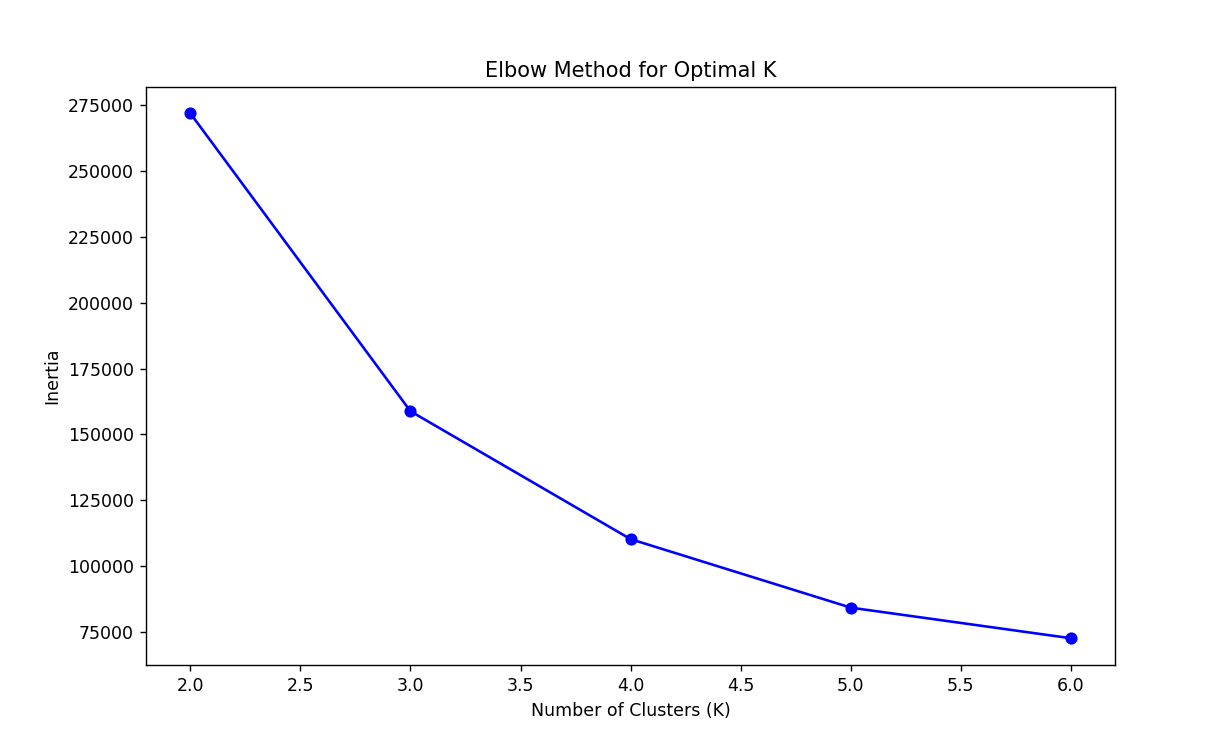
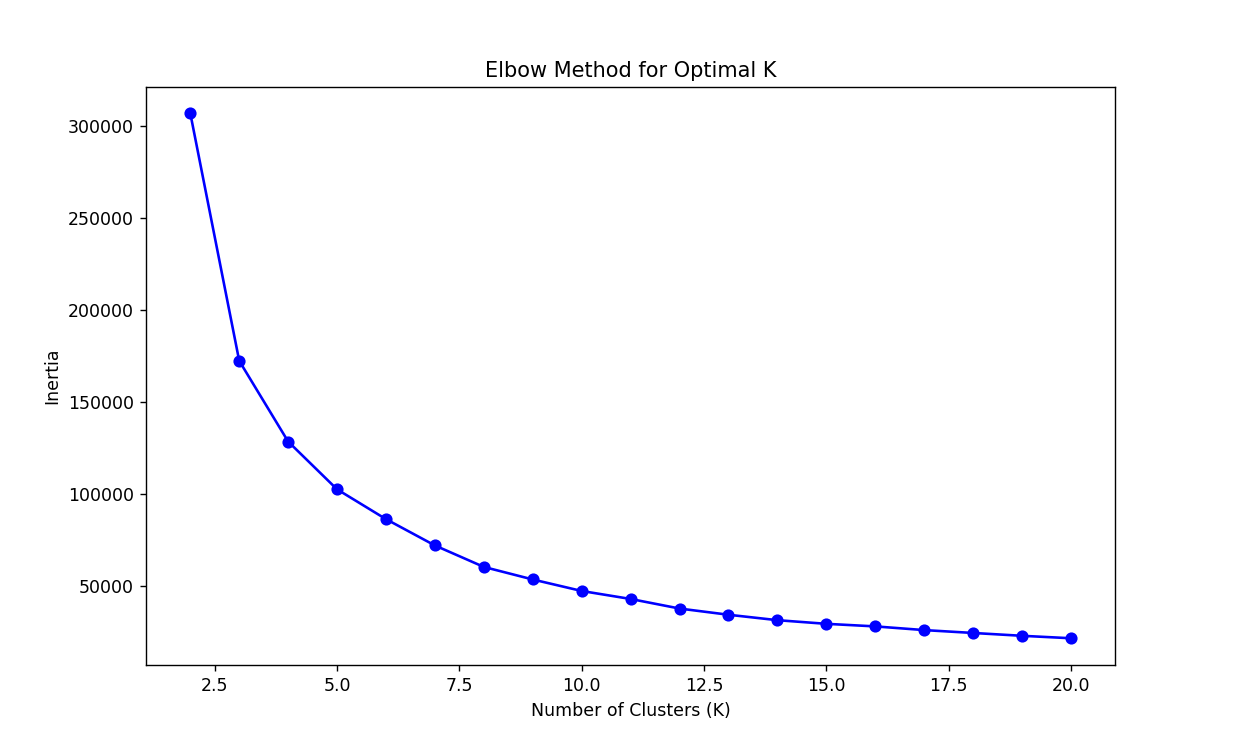
Fixed scaling issue with K means

diff --git a/kmeans.py b/kmeans.py
@@ -2,7 +2,7 @@ import numpy as np
 
 # For converting text features into vectors
 from sklearn.feature_extraction.text import TfidfVectorizer
-from sklearn.preprocessing import StandardScaler 
+from sklearn.preprocessing import StandardScaler, scale
 from sklearn.cluster import KMeans
 from sklearn.manifold import TSNE
 from sklearn.metrics import silhouette_samples, silhouette_score
@@ -26,11 +26,11 @@ from details_keywords import primary_keywords, secondary_keywords
 
 # Declaring constants
 TABLE_NAME = "incidents"
-# Obtained from the elbow plot
+# Obtained from silhouette analysis and the elbow plot
 N_CLUSTERS = 3
 # Testing a range of possible cluster counts
-RANGE_N_CLUSTERS = range(2, 7)
-FEATURES_TO_ANALYZE = ['id', 'incidenttype_cleaned', 'location']
+RANGE_N_CLUSTERS = range(2, 21)
+# FEATURES_TO_ANALYZE = ['id', 'incidenttype_cleaned', 'location']
 
 """
 Loads and preprocesses the data for training.
@@ -40,6 +40,7 @@ def load_and_transform_data(engine):
     df = pd.read_sql(f"SELECT * FROM {TABLE_NAME} ORDER BY id", engine)
     # Storing a duplicate of the DataFrame for reference when recommendations are suggested
     copied_df = df.copy(deep=True)
+    # Dropping unneccessary columns
     df = df.drop(columns=['page', 'otherincidenttype', 'detailsembed', 'locdetailsembed', 'locdescrembed', 'locationembed', 'descrembed'], axis=1)
 
     # For specifying the exact incident type for any incident type that is "Other"
@@ -51,6 +52,8 @@ def load_and_transform_data(engine):
     # For the date/time of the incident
     df = get_dates(df)
 
+    # Dropping text columns since they are not needed for clustering
+    # df = df.drop(['incidentdetails', 'description'], axis=1)
     # text_features = {}
     # vectorizers = {}
 
@@ -67,9 +70,9 @@ def load_and_transform_data(engine):
 
     # return result_df, copied_df, vectorizers
 
-    vectorizers = {}
-    df = df.drop(['incidentdetails', 'description'], axis=1)
-    return df, copied_df, vectorizers
+    # vectorizers = {}
+    
+    return df, copied_df
 
 """
 Uses the keyword dictionaries to map any rows with "Other" as their incident type to an appropriate keyword (i.e. mapping it to a new category).
@@ -257,21 +260,17 @@ def silhouette_analysis(X):
         fig.set_size_inches(18, 7)
 
         # The 1st subplot is the silhouette plot
-        # The silhouette coefficient can range from -1, 1 but in this example all
-        # lie within [-0.1, 1]
+        # The silhouette coefficient can range from -1, 1 but in this example all lie within [-0.1, 1]
         ax1.set_xlim([-0.1, 1])
-        # The (n_clusters+1)*10 is for inserting blank space between silhouette
-        # plots of individual clusters, to demarcate them clearly.
+        # The (n_clusters+1)*10 is for inserting blank space between silhouette plots of individual clusters, to demarcate them clearly.
         ax1.set_ylim([0, len(X) + (n_clusters + 1) * 10])
 
-        # Initialize the clusterer with n_clusters value and a random generator
-        # seed of 10 for reproducibility.
+        # Initialize the clusterer with n_clusters value and a random generator seed of 10 for reproducibility.
         clusterer = KMeans(n_clusters=n_clusters, random_state=10, n_init='auto')
         cluster_labels = clusterer.fit_predict(X_reduced)
 
         # The silhouette_score gives the average value for all the samples.
-        # This gives a perspective into the density and separation of the formed
-        # clusters
+        # This gives a perspective into the density and separation of the formed clusters
         silhouette_avg = silhouette_score(X, cluster_labels)
         print(
             "For n_clusters =",
@@ -285,8 +284,7 @@ def silhouette_analysis(X):
 
         y_lower = 10
         for i in range(n_clusters):
-            # Aggregate the silhouette scores for samples belonging to
-            # cluster i, and sort them
+            # Aggregate the silhouette scores for samples belonging to cluster i, and sort them
             ith_cluster_silhouette_values = sample_silhouette_values[cluster_labels == i]
 
             ith_cluster_silhouette_values.sort()
@@ -376,14 +374,22 @@ def analyze_clusters(X, df, labels):
     for cluster in range(N_CLUSTERS):
         print(f"Cluster {cluster}:")
         cluster_data = df[labels == cluster]
-        for col in FEATURES_TO_ANALYZE:
-            print(cluster_data[col].value_counts(normalize=False))
-            print("\n")
+
+        print(cluster_data['id'].value_counts(normalize=False))
+        print("\n")
+        print(cluster_data['location'].value_counts(normalize=False))
+        print("\n")
+        print(cluster_data['incidenttype_cleaned'].value_counts(normalize=False))
+        print("\n")
         print(cluster_data['day_of_week'].value_counts(normalize=False))
         print("\n")
         print(cluster_data['month'].value_counts(normalize=False))
         print("\n")
         print(cluster_data['hour'].value_counts(normalize=False))
+        print("\n")
+        print(cluster_data['incidentdetails'].value_counts(normalize=False))
+        print("\n")
+        print(cluster_data['description'].value_counts(normalize=False))
         print("\n")
 
 def main():
@@ -391,11 +397,12 @@ def main():
     engine = create_engine(f'postgresql://{user}:{password}@{host}:{port}/{dbname}')
 
     # Preprocessing the data
-    df, copied_df, vectorizers = load_and_transform_data(engine)
+    df, copied_df = load_and_transform_data(engine)
 
     # When preprocessing the data, certain columns are left out so that they can be indexed again for analysis; when using the DataFrame for clustering, these features are to be dropped as they are not in a usable format
-    X = df.drop(columns=FEATURES_TO_ANALYZE, axis=1)
-
+    X = df.drop(columns=['id', 'incidenttype_cleaned', 'location', 'incidentdetails', 'description'], axis=1)
+    # X = StandardScaler().fit_transform(X)
+    X = scale(X, axis=1)
     # Displays the silhouette plots
     # silhouette_analysis(X)
 
@@ -403,10 +410,12 @@ def main():
     elbow_plot(X)
 
     # Training the model
-    kmeans, labels = train_model(X)
+    _, labels = train_model(X)
 
     # Analyzing characteristics of each cluster
     analyze_clusters(X, df, labels)
+
+    # predict(kmeans)
 
 if __name__ == "__main__":
     main()

diff --git a/elbow_analysis.md b/elbow_analysis.md
@@ -1,5 +1,5 @@
-## This plot shows the change in variation for N clusters of the dataset, where 2 <= N <= 6
+## This plot shows the change in variation for K clusters of the dataset, where 2 <= N <= 20.
 
 ![alt text](elbow-plot.png)
 
-The variation decreases the most significantly at N = 3, so the data will be organized into 3 clusters.
+The variation decreases the most significantly at K = 2 and K = . Based on the results from the silhouette analysis, a K value of 3 will be used for clustering.
